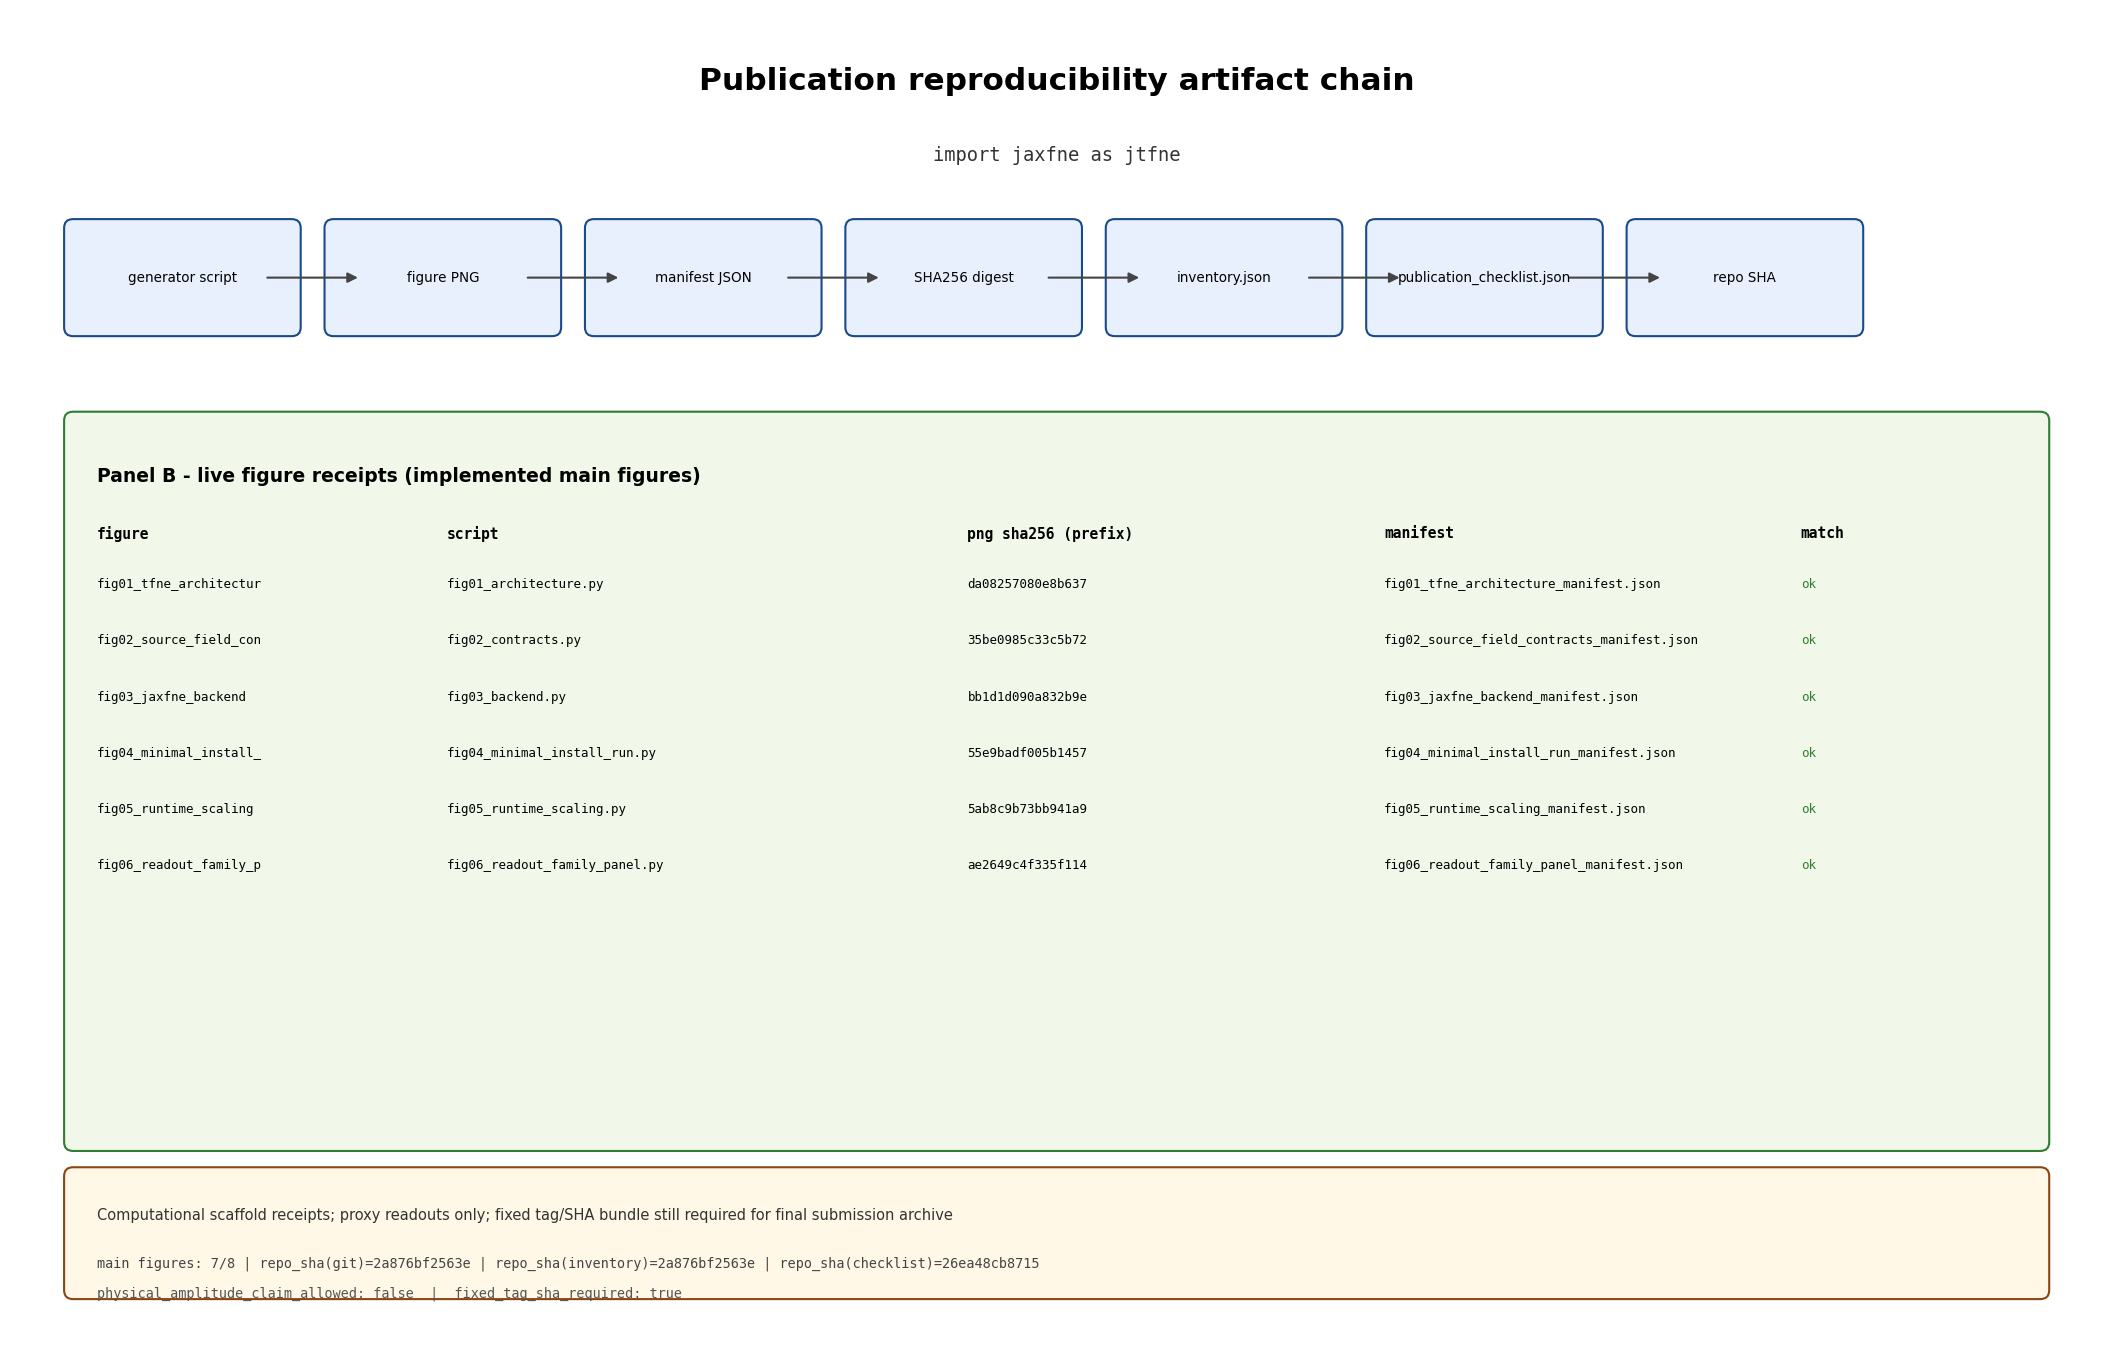
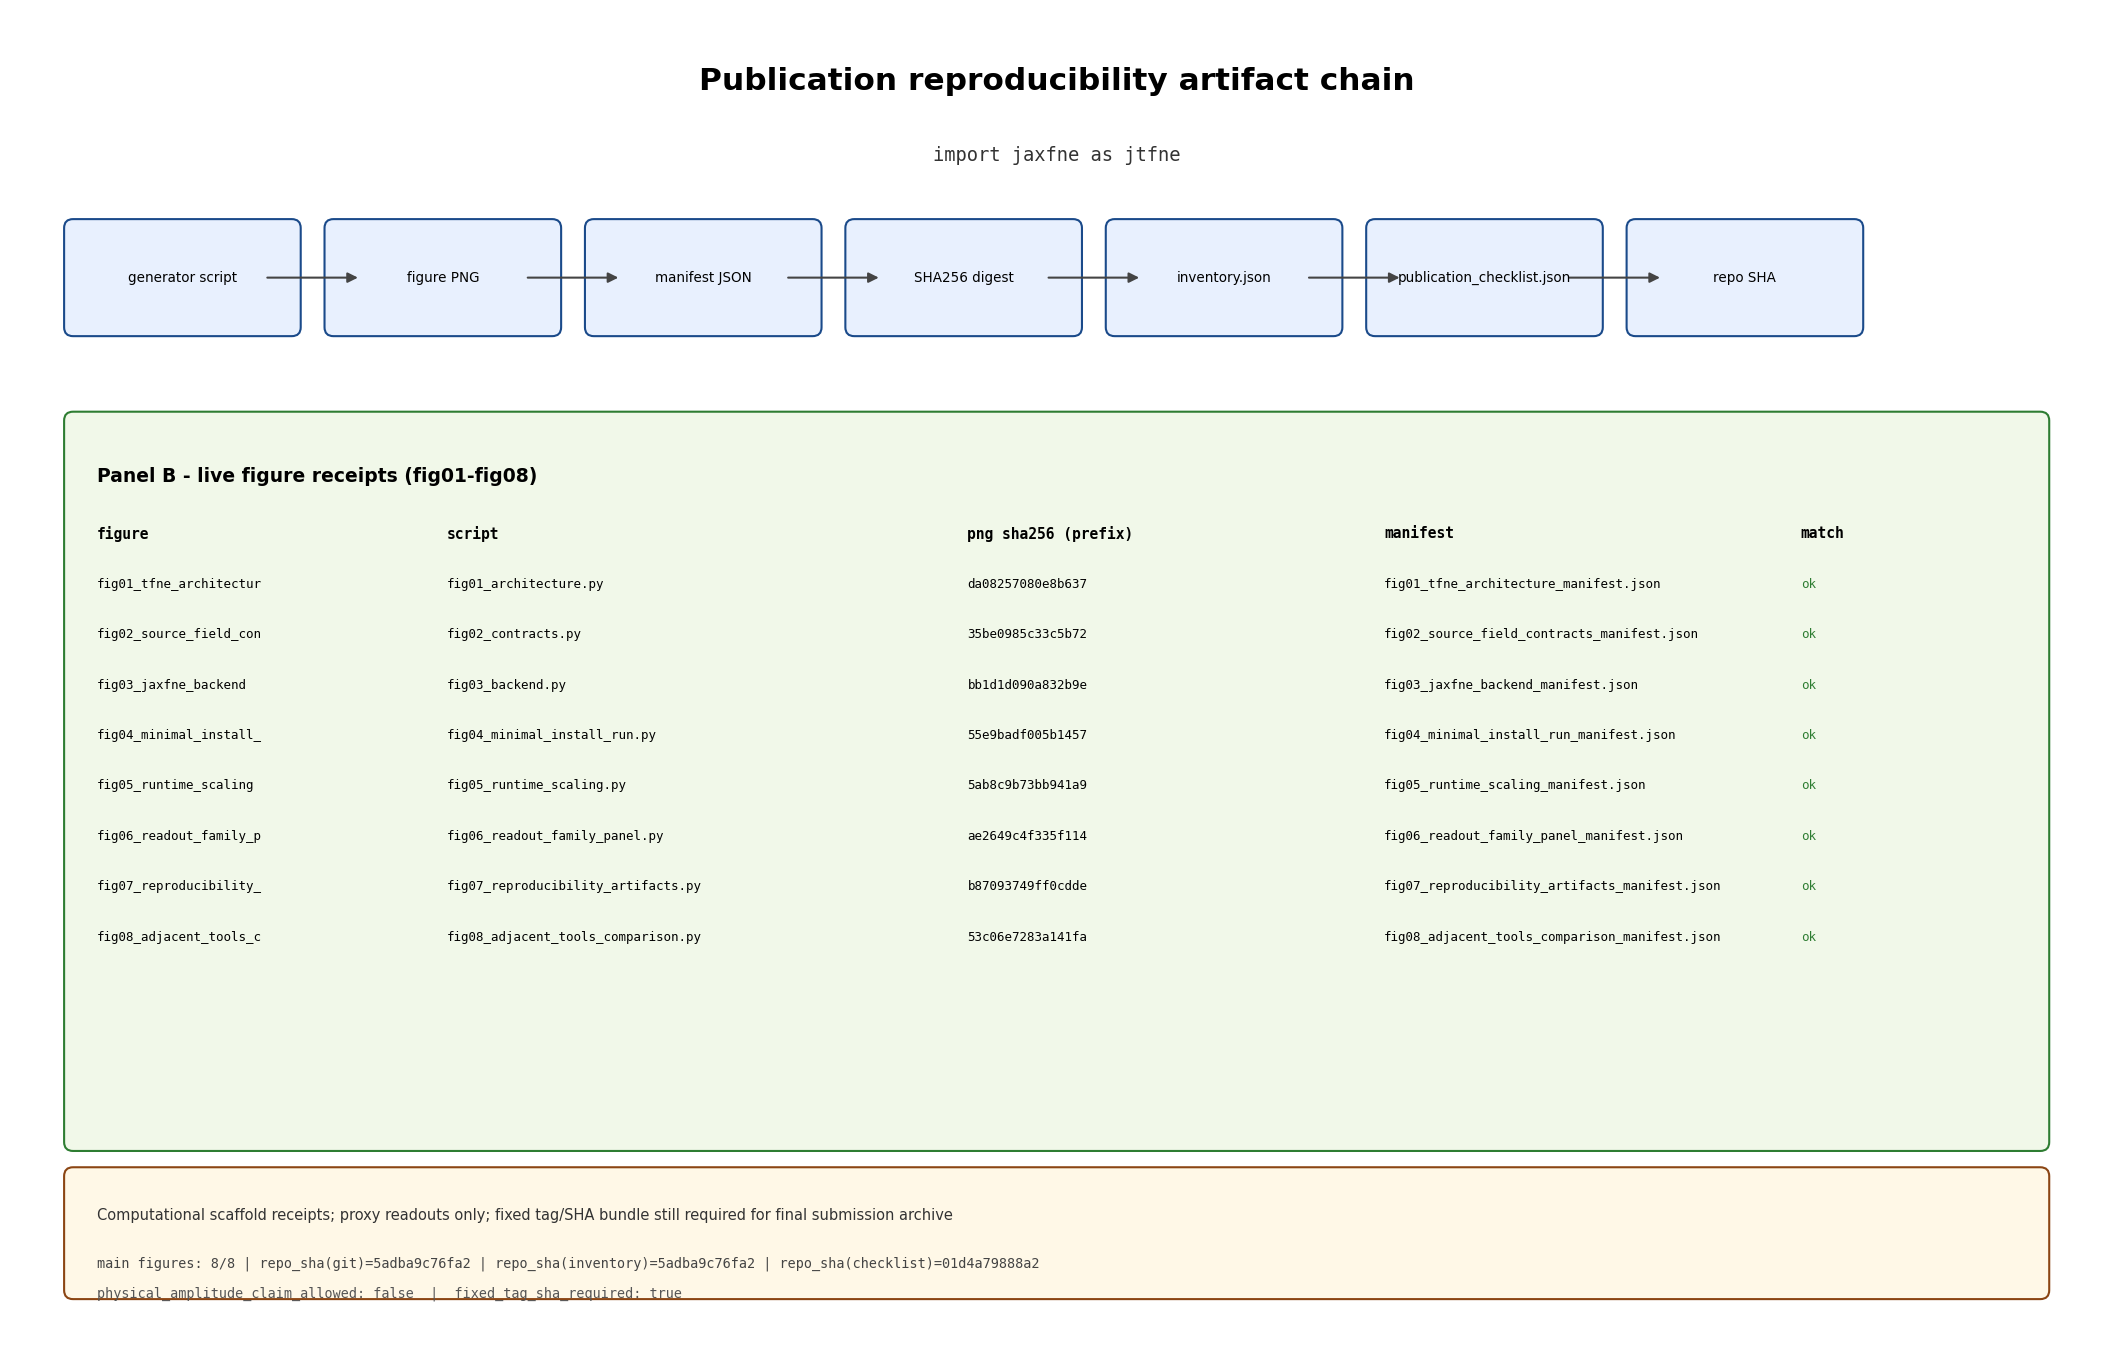
Refresh fig07 receipt table to cover fig01-fig08 after main stack completion
Extend FIGURE_SCRIPTS with fig07 and fig08 entries, tighten row spacing for
eight receipts, and sync fig07 self-row SHA to avoid circular manifest drift.

diff --git a/scripts/publication/fig07_reproducibility_artifacts.py b/scripts/publication/fig07_reproducibility_artifacts.py
@@ -62,6 +62,8 @@ FIGURE_SCRIPTS = {
     "fig04_minimal_install_run.png": "scripts/publication/fig04_minimal_install_run.py",
     "fig05_runtime_scaling.png": "scripts/publication/fig05_runtime_scaling.py",
     "fig06_readout_family_panel.png": "scripts/publication/fig06_readout_family_panel.py",
+    "fig07_reproducibility_artifacts.png": "scripts/publication/fig07_reproducibility_artifacts.py",
+    "fig08_adjacent_tools_comparison.png": "scripts/publication/fig08_adjacent_tools_comparison.py",
 }
 
 _dirs = ensure_publication_dirs()
@@ -108,15 +110,22 @@ def build_reproducibility_chain(inventory: dict, checklist: dict) -> dict:
             continue
         script = FIGURE_SCRIPTS[filename]
         manifest_info = _manifest_entry(root, filename) if asset["exists"] else None
+        png_sha = asset.get("sha256")
+        manifest_figure_sha = (
+            manifest_info["figure_sha256"] if manifest_info else None
+        )
+        # Fig07 receipt row references this generator output; avoid circular stale mismatch.
+        if filename == "fig07_reproducibility_artifacts.png":
+            manifest_figure_sha = png_sha
         figure_rows.append(
             {
                 "filename": filename,
                 "exists": asset["exists"],
                 "generator_script": script,
-                "png_sha256": asset.get("sha256"),
+                "png_sha256": png_sha,
                 "manifest_path": manifest_info["path"] if manifest_info else None,
                 "manifest_sha256": manifest_info["sha256"] if manifest_info else None,
-                "manifest_figure_sha256": manifest_info["figure_sha256"] if manifest_info else None,
+                "manifest_figure_sha256": manifest_figure_sha,
             }
         )
 
@@ -211,7 +220,7 @@ def draw_figure(chain: dict) -> None:
         facecolor="#F1F8E9",
     )
     ax.add_patch(table_box)
-    ax.text(0.55, 5.95, "Panel B - live figure receipts (implemented main figures)", fontsize=9, fontweight="bold", va="top")
+    ax.text(0.55, 5.95, "Panel B - live figure receipts (fig01-fig08)", fontsize=9, fontweight="bold", va="top")
 
     headers = ["figure", "script", "png sha256 (prefix)", "manifest", "match"]
     col_x = [0.55, 2.9, 6.4, 9.2, 12.0]
@@ -219,6 +228,7 @@ def draw_figure(chain: dict) -> None:
         ax.text(hx, 5.55, header, fontsize=7, fontweight="bold", va="top", family="monospace")
 
     row_y = 5.2
+    row_step = 0.34
     for row in chain["figure_rows"]:
         if not row["exists"]:
             continue
@@ -238,7 +248,7 @@ def draw_figure(chain: dict) -> None:
         ax.text(col_x[2], row_y, png_prefix, fontsize=6, va="top", family="monospace")
         ax.text(col_x[3], row_y, manifest_short, fontsize=6, va="top", family="monospace")
         ax.text(col_x[4], row_y, match, fontsize=6, va="top", family="monospace", color="#2E7D32" if match == "ok" else "#C62828")
-        row_y -= 0.38
+        row_y -= row_step
 
     # Panel C - scope / repo receipts
     scope_box = FancyBboxPatch(
@@ -282,11 +292,8 @@ def main() -> int:
 
     draw_figure(chain)
 
-    # Refresh inventory after fig07 PNG is written; update chain summary fields.
     inventory = _load_inventory()
-    chain["main_figures_present"] = inventory["summary"]["main_figures_present"]
-    chain["main_figures_total"] = inventory["summary"]["main_figures_total"]
-    chain["repo_sha_inventory"] = inventory.get("repo_sha")
+    chain = build_reproducibility_chain(inventory, checklist)
 
     inv_path = repo_root() / "outputs" / "publication" / "inventory.json"
     inv_path.parent.mkdir(parents=True, exist_ok=True)
